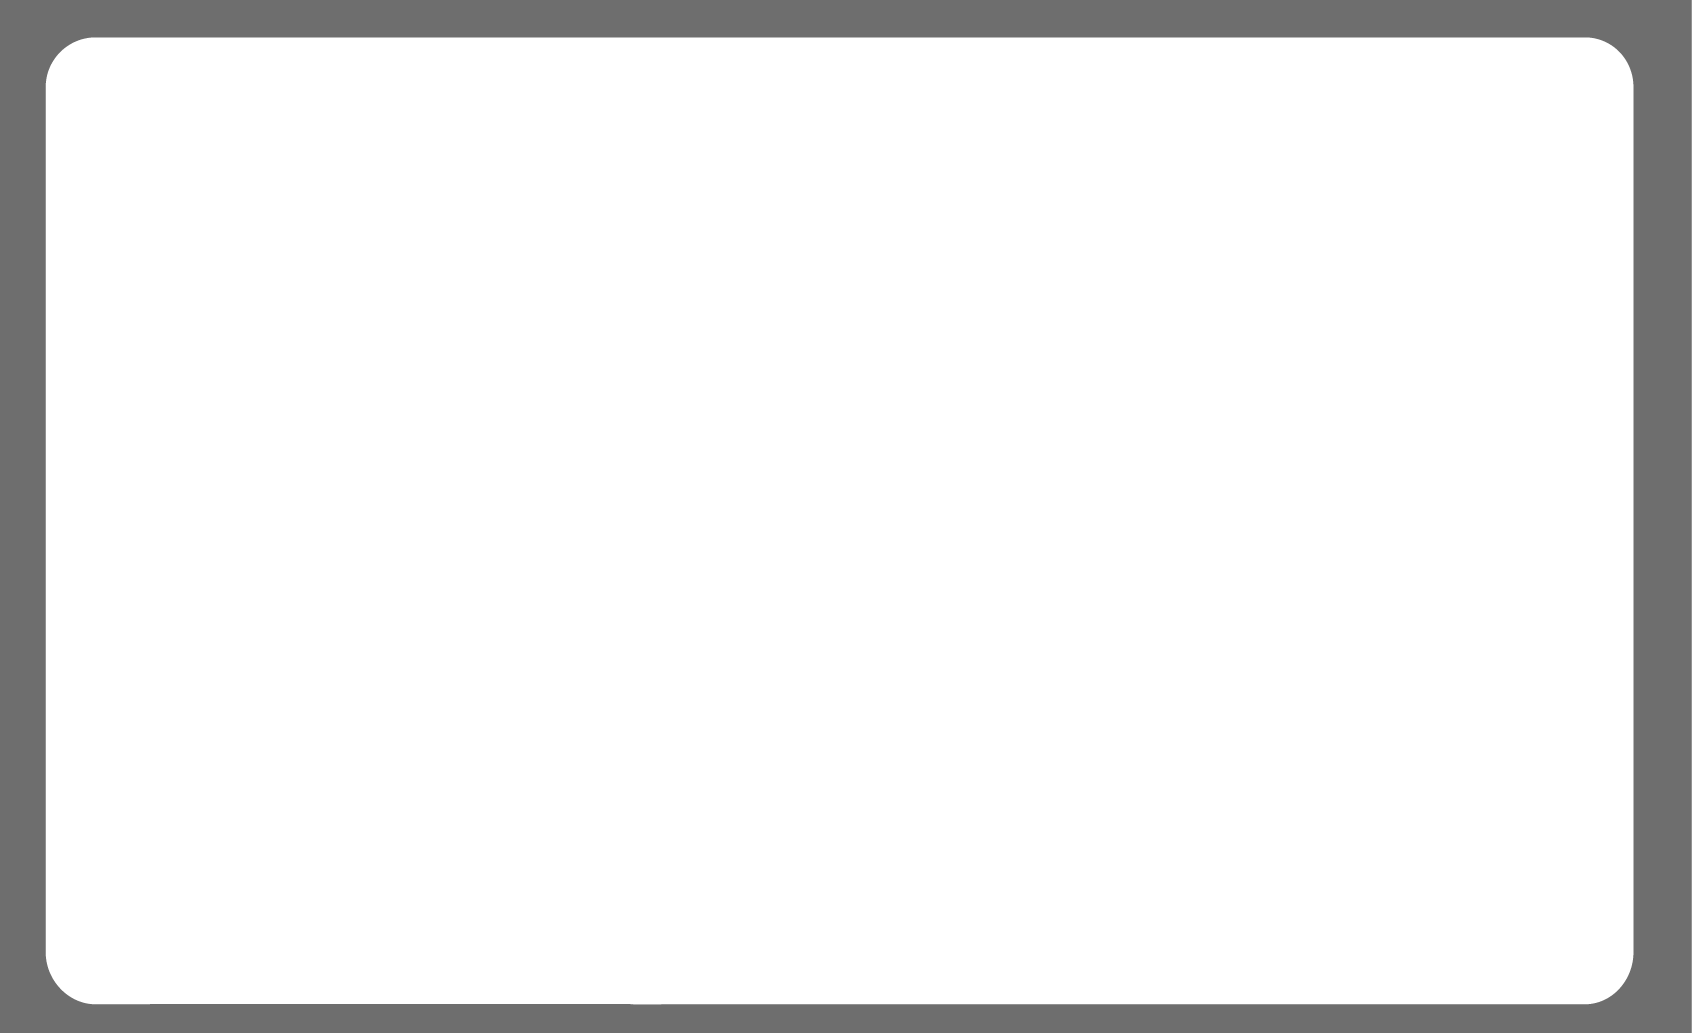
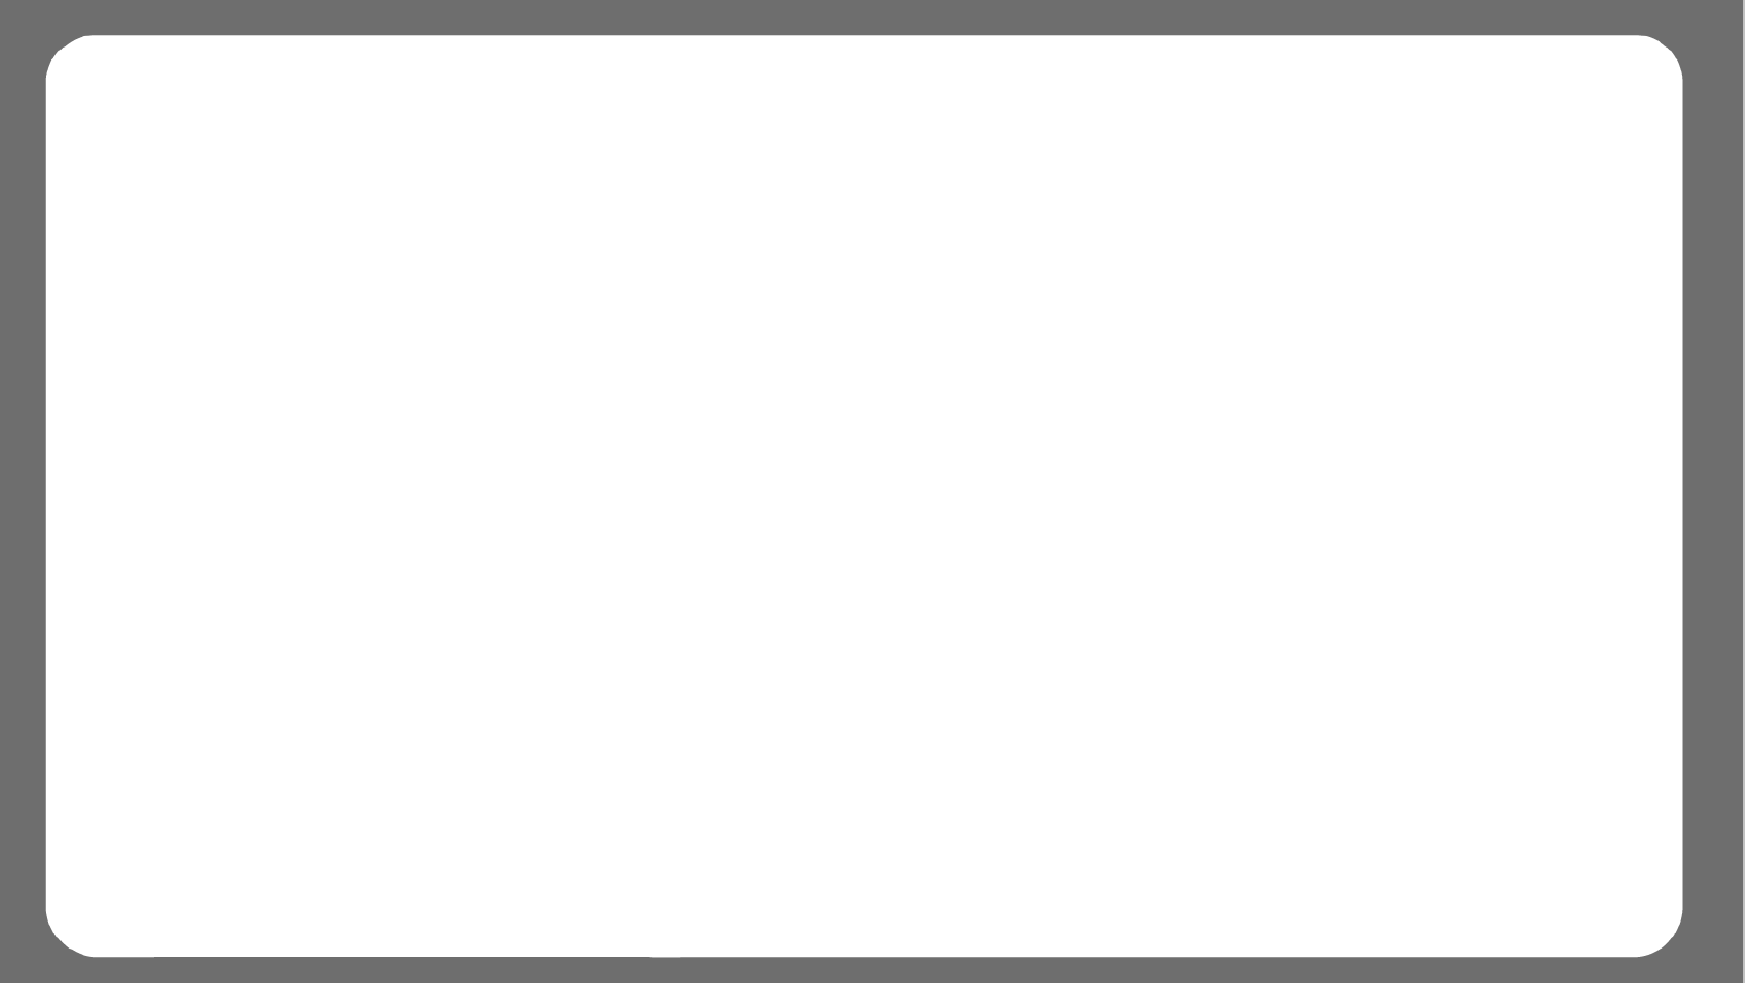
cleaning up shop screen

diff --git a/core/src/com/TeamHEC/LocomotionCommotion/Game_Actors/Game_Shop.java b/core/src/com/TeamHEC/LocomotionCommotion/Game_Actors/Game_Shop.java
@@ -68,8 +68,9 @@ public class Game_Shop {
 			startScreenStageEnd=0;
 
 
-			game_shop_backdrop = new Game_Asset(-1,-20,Game_TextureManager.getInstance().game_shop_backdrop);
+			game_shop_backdrop = new Game_Asset(-20,-15,Game_TextureManager.getInstance().game_shop_backdrop);
 			actors.add(game_shop_backdrop);
+			System.out.println(game_shop_backdrop.texture.getWidth()+""+game_shop_backdrop.texture.getHeight());
 			game_shop_backbtn = new Game_shop_BackBtn();
 			actors.add(game_shop_backbtn);
 			game_shop_title = new Game_Asset(170,820,Game_TextureManager.getInstance().game_shop_title);
@@ -281,7 +282,7 @@ public class Game_Shop {
 
 		public ShopHomeScreen(){
 			this.actors = new ArrayList<Actor>();
-			Game_Asset shopscreen = new Game_Asset(45, 9, Game_TextureManager.getInstance().game_shop_startscreen);
+			Game_Asset shopscreen = new Game_Asset(45, 8, Game_TextureManager.getInstance().game_shop_startscreen);
 			this.actors.add(shopscreen);
 			ShopBackBtn back = new ShopBackBtn();
 			this.actors.add(back);
